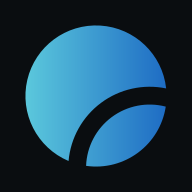
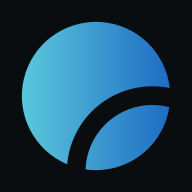
feat: radar animado, más apariciones al hacer scroll, redes y mapa (v1.1.0)
- Favicon generado directamente de brand/connexis-isotipo.svg (transparente).
- Radar del hero: barrido que gira "buscando", detecciones sincronizadas con el haz
  y pulsos desde el isotipo; versión lenta con prefers-reduced-motion.
- Motion: títulos palabra por palabra, fotos con revelado tipo cortina y parallax,
  línea de etiquetas, tarjetas/tablas/FAQ/formularios/footer en secuencia.
  Las apariciones se revisan en cada scroll para que nada quede oculto.
- Teléfono +52 8129129134, LinkedIn y Facebook (header, footer, contacto, schema sameAs).
- Dirección en el header y mapa de Google en /contacto (CSP actualizada).

diff --git a/src/scripts/motion.ts b/src/scripts/motion.ts
@@ -1,39 +1,119 @@
-// Animaciones con Motion (https://motion.dev). Pocas y con propósito:
-// 1. Entrada del hero (titular y CTA) sin tocar la opacidad del texto → no retrasa el LCP.
-// 2. Revelado al hacer scroll con escalonado por tarjeta (atributo data-reveal + --i).
+// Animaciones con Motion (https://motion.dev).
+// 1. Entrada del hero sin tocar la opacidad del texto → no retrasa el LCP.
+// 2. Apariciones al hacer scroll (revisión en cada scroll, sin depender de IntersectionObserver): bloques, tarjetas en secuencia, títulos palabra por palabra,
+//    fotos con revelado tipo cortina + parallax, línea de las etiquetas, filas de tablas y footer.
 // 3. Barra de progreso de lectura y respuesta táctil en botones.
-// Con prefers-reduced-motion todo queda estático y visible.
-import { animate, inView, press, scroll, stagger } from 'motion';
+// Con prefers-reduced-motion: solo desvanecidos suaves (sin desplazamientos ni parallax).
+import { animate, press, scroll, stagger } from 'motion';
 
 const EASE: [number, number, number, number] = [0.16, 1, 0.3, 1];
 const reduce = window.matchMedia('(prefers-reduced-motion: reduce)').matches;
-const reveal = document.querySelectorAll<HTMLElement>('[data-reveal]');
+const root = document.documentElement;
+root.classList.add('motion');
+if (reduce) root.classList.add('motion-reduce');
 
-if (reduce) {
-  reveal.forEach((el) => el.classList.add('is-in'));
-} else {
-  document.documentElement.classList.add('motion');
+// Dispara `fn` una vez cuando el elemento entra a la pantalla. Se revisa en cada scroll (rAF),
+// así nada se queda oculto aunque el usuario baje muy rápido o salte con un ancla.
+const pending = new Map<Element, () => void>();
+let ticking = false;
+function check() {
+  ticking = false;
+  const limit = window.innerHeight * 0.92;
+  pending.forEach((fn, el) => {
+    if (el.getBoundingClientRect().top < limit) { pending.delete(el); fn(); }
+  });
+}
+const queue = () => { if (!ticking) { ticking = true; requestAnimationFrame(check); } };
+function onEnter(el: Element, fn: () => void) { pending.set(el, fn); queue(); }
+window.addEventListener('scroll', queue, { passive: true });
+window.addEventListener('resize', queue);
+window.addEventListener('load', queue);
 
-  // 1 · Hero
+const inHero = (el: Element) => Boolean(el.closest('[data-hero], [data-hero-art], .cx-loader, .mbar, .cookies'));
+
+// ---------- 1 · Hero ----------
+if (!reduce) {
   const hero = document.querySelectorAll<HTMLElement>('[data-hero] > *');
   if (hero.length) animate(hero, { y: [16, 0] }, { duration: 0.9, ease: EASE, delay: stagger(0.08) });
-  const radar = document.querySelector<HTMLElement>('[data-hero-art]');
-  if (radar) animate(radar, { opacity: [0, 1], scale: [0.92, 1] }, { type: 'spring', stiffness: 60, damping: 18, delay: 0.15 });
+  const art = document.querySelector<HTMLElement>('[data-hero-art]');
+  if (art) animate(art, { opacity: [0, 1], scale: [0.9, 1] }, { type: 'spring', stiffness: 60, damping: 18, delay: 0.15 });
+}
 
-  // 2 · Revelado al hacer scroll (una sola vez por elemento)
-  inView(
-    reveal,
-    (el) => {
-      const i = Number((el as HTMLElement).style.getPropertyValue('--i')) || 0;
-      animate(el, { opacity: [0, 1], y: [24, 0] }, { duration: 0.8, ease: EASE, delay: i * 0.07 }).finished.then(() =>
-        el.classList.add('is-in'),
-      );
-    },
-    { margin: '0px 0px -10% 0px', amount: 0.05 },
-  );
+// ---------- 2 · Apariciones al hacer scroll ----------
+// Además de los [data-reveal] marcados a mano, se agregan automáticamente estos bloques.
+const AUTO = [
+  'main .section-head', 'main .tldr', 'main .table-wrap', 'main .card', 'main .faq__item', 'main .step',
+  'main form.lead', 'main .channel', 'main .benefits__list li', 'main .checks li', 'main .hero__proof li',
+  'main .diag__contact li', 'main .prose > *', 'main .lp-final', 'main .ctaband', 'main .thanks',
+  '.share-band__in', '.footer__grid > *', '.footer__bottom',
+].join(',');
+
+const marked = new Set<HTMLElement>(document.querySelectorAll<HTMLElement>('[data-reveal]'));
+document.querySelectorAll<HTMLElement>(AUTO).forEach((el) => {
+  if (inHero(el) || marked.has(el)) return;
+  // Si un ancestro ya aparece, no duplicar la animación
+  for (const m of marked) if (m.contains(el)) return;
+  el.setAttribute('data-reveal', '');
+  marked.add(el);
+});
+// Escalonado entre hermanos que aparecen juntos
+marked.forEach((el) => {
+  if (el.style.getPropertyValue('--i')) return;
+  const sibs = Array.from(el.parentElement?.children ?? []).filter((c) => marked.has(c as HTMLElement));
+  el.style.setProperty('--i', String(Math.max(0, sibs.indexOf(el))));
+});
+
+marked.forEach((el) =>
+  onEnter(el, () => {
+    const i = Number(el.style.getPropertyValue('--i')) || 0;
+    const delay = Math.min(i, 8) * 0.07;
+    const kf = reduce || el.tagName === 'TR' ? { opacity: [0, 1] } : { opacity: [0, 1], y: [28, 0] };
+    const done = () => el.classList.add('is-in');
+    animate(el, kf, { duration: reduce ? 0.5 : 0.8, ease: EASE, delay }).finished.then(done, done);
+  }),
+);
+
+if (!reduce) {
+  // Títulos H2: las palabras suben desde una máscara
+  document.querySelectorAll<HTMLElement>('main h2, .footer__title').forEach((h) => {
+    if (inHero(h) || h.closest('.tldr, .faq__item, form, .cookies')) return;
+    splitWords(h);
+    const words = h.querySelectorAll<HTMLElement>('.w__i');
+    words.forEach((w) => (w.style.transform = 'translateY(105%)'));
+    onEnter(h, () => {
+      animate(words, { y: ['105%', '0%'] }, { duration: 0.75, ease: EASE, delay: stagger(0.045, { startDelay: 0.05 }) });
+    });
+  });
+
+  // Etiquetas (eyebrow): la línea se dibuja de izquierda a derecha
+  document.querySelectorAll<HTMLElement>('.eyebrow').forEach((e) => {
+    if (inHero(e)) return;
+    e.style.setProperty('--line', '0');
+    onEnter(e, () => { animate(e, { '--line': [0, 1] } as any, { duration: 0.7, ease: EASE, delay: 0.1 }); });
+  });
+
+  // Fotos: revelado tipo cortina + ligera escala, y parallax mientras se hace scroll
+  document.querySelectorAll<HTMLElement>('main .photo').forEach((p) => {
+    const img = p.querySelector<HTMLElement>('img');
+    if (!img) return;
+    const eager = inHero(p) || p.getBoundingClientRect().top < window.innerHeight;
+    if (!eager) {
+      p.style.clipPath = 'inset(0 0 100% 0)';
+      onEnter(p, () => {
+        const clear = () => { p.style.clipPath = ''; };
+        animate(p, { clipPath: ['inset(0 0 100% 0)', 'inset(0 0 0% 0)'] }, { duration: 1.1, ease: EASE }).finished.then(clear, clear);
+        animate(img, { scale: [1.18, 1.06] }, { duration: 1.4, ease: EASE });
+      });
+    }
+    // Parallax solo en fotos que no son enlaces (los enlaces usan zoom al pasar el cursor)
+    if (!p.closest('a')) {
+      img.style.scale = '1.06';
+      scroll(animate(img, { y: ['-4%', '4%'] }, { ease: 'linear' }), { target: p, offset: ['start end', 'end start'] });
+    }
+  });
 
   // 3 · Respuesta táctil en botones
-  press('.btn, .filter', (el) => {
+  press('.btn, .filter, .channel', (el) => {
     animate(el, { scale: 0.97 }, { type: 'spring', stiffness: 600, damping: 30 });
     return () => animate(el, { scale: 1 }, { type: 'spring', stiffness: 500, damping: 20 });
   });
@@ -43,6 +123,35 @@ if (reduce) {
   if (ok) animate(ok, { scale: [0.4, 1], rotate: [-20, 0] }, { type: 'spring', stiffness: 260, damping: 14, delay: 0.1 });
 }
 
-// Barra de progreso de lectura (también útil con reduced-motion: solo refleja el scroll)
+// Barra de progreso de lectura (solo refleja el scroll; también con reduced-motion)
 const bar = document.querySelector<HTMLElement>('[data-progress]');
 if (bar) scroll(animate(bar, { scaleX: [0, 1] }, { ease: 'linear' }));
+
+/** Envuelve cada palabra en una máscara para animarla, conservando etiquetas internas (p. ej. .hl). */
+function splitWords(el: HTMLElement) {
+  if (el.dataset.split) return;
+  el.dataset.split = '1';
+  const walk = (node: Node) => {
+    Array.from(node.childNodes).forEach((child) => {
+      if (child.nodeType === Node.TEXT_NODE) {
+        const parts = (child.textContent ?? '').split(/(\s+)/);
+        const frag = document.createDocumentFragment();
+        parts.forEach((part) => {
+          if (!part) return;
+          if (/^\s+$/.test(part)) { frag.append(document.createTextNode(part)); return; }
+          const w = document.createElement('span');
+          w.className = 'w';
+          const inner = document.createElement('span');
+          inner.className = 'w__i';
+          inner.textContent = part;
+          w.append(inner);
+          frag.append(w);
+        });
+        child.replaceWith(frag);
+      } else if (child.nodeType === Node.ELEMENT_NODE && !(child as Element).matches('svg, br')) {
+        walk(child);
+      }
+    });
+  };
+  walk(el);
+}

diff --git a/src/data/site.ts b/src/data/site.ts
@@ -11,7 +11,7 @@ export const SITE = {
   tagline: 'Ciberseguridad, redes y seguridad electrónica para PyMEs en Monterrey',
   description:
     'Soluciones de ciberseguridad, redes y seguridad electrónica para pequeñas y medianas empresas en Monterrey y su área metropolitana.',
-  phone: '+52 81 2912 9134',
+  phone: '+52 8129129134',
   phoneHref: 'tel:+528129129134',
   whatsapp: '528129129134', // CONFIRMAR que el número tiene WhatsApp Business
   whatsappText: 'Hola ConneXis, me interesa una evaluación de ciberseguridad para mi empresa.',
@@ -33,9 +33,9 @@ export const SITE = {
   responseTime: '1 día hábil', // CONFIRMAR tiempo de respuesta que se promete en formularios
   // Deja vacío lo que no exista; el footer y el schema solo muestran lo que tenga URL.
   social: {
-    linkedin: '',
-    facebook: '',
-    instagram: '',
+    linkedin: 'https://www.linkedin.com/company/connexis-mx/',
+    facebook: 'https://www.facebook.com/share/14GhoWJVgx4/',
+    instagram: '', // pendiente
   },
 } as const;
 
@@ -65,3 +65,11 @@ export const cleanPath = (pathname: string) => {
   const p = pathname.replace(/\.html$/, '').replace(/\/index$/, '/').replace(/(.)\/$/, '$1');
   return p === '' ? '/' : p;
 };
+
+/** Redes con URL definida (el footer, el header y el schema solo muestran estas). */
+export const socialLinks = () =>
+  ([
+    { name: 'LinkedIn', href: SITE.social.linkedin, icon: 'LinkedIn' },
+    { name: 'Facebook', href: SITE.social.facebook, icon: 'Facebook' },
+    { name: 'Instagram', href: SITE.social.instagram, icon: 'Instagram' },
+  ] as const).filter((s) => s.href) as { name: string; href: string; icon: 'LinkedIn' | 'Facebook' | 'Instagram' }[];

diff --git a/src/styles/global.css b/src/styles/global.css
@@ -84,7 +84,7 @@ h3 { font-size: clamp(1.15rem, 1.6vw, 1.35rem); font-weight: 600; letter-spacing
   display: inline-flex; align-items: center; gap: 12px; margin-bottom: 18px;
   color: var(--lime); font-size: 0.875rem; font-weight: 600; letter-spacing: 0.02em;
 }
-.eyebrow::before { content: ''; width: 28px; height: 2px; background: currentColor; }
+.eyebrow::before { content: ''; width: 28px; height: 2px; background: currentColor; transform: scaleX(var(--line, 1)); transform-origin: 0 50%; }
 .num { font-variant-numeric: tabular-nums; }
 
 /* ---------- Layout ---------- */
@@ -206,7 +206,11 @@ td.yes { color: var(--lime); }
 /* ---------- Revelado al hacer scroll ---------- */
 /* Estado inicial solo cuando Motion ya cargó (clase .motion en <html>): si el script
    falla, el contenido nunca queda oculto. Motion anima la entrada y deja .is-in. */
-.motion [data-reveal]:not(.is-in) { opacity: 0; transform: translateY(24px); }
+.motion [data-reveal]:not(.is-in) { opacity: 0; }
+
+/* Palabras de títulos (las crea src/scripts/motion.ts) */
+.w { display: inline-block; overflow: hidden; vertical-align: top; padding-bottom: 0.08em; margin-bottom: -0.08em; }
+.w__i { display: inline-block; will-change: transform; }
 
 /* Barra de progreso de lectura */
 .scroll-progress { position: fixed; top: 0; left: 0; right: 0; height: 2px; z-index: 120; background: var(--lime); transform: scaleX(0); transform-origin: 0 50%; pointer-events: none; }

diff --git a/README.md b/README.md
@@ -12,7 +12,7 @@
 </p>
 
 <p align="center">
-  <img alt="Versión" src="https://img.shields.io/badge/versión-1.0.0-8CD336?style=flat-square" />
+  <img alt="Versión" src="https://img.shields.io/badge/versión-1.1.0-8CD336?style=flat-square" />
   <img alt="Etapa" src="https://img.shields.io/badge/etapa-1%20de%203-5BC8DC?style=flat-square" />
   <img alt="Astro" src="https://img.shields.io/badge/Astro-7-0B1B2E?style=flat-square&logo=astro" />
   <img alt="Motion" src="https://img.shields.io/badge/Motion-14-0B1B2E?style=flat-square" />
@@ -25,7 +25,7 @@
 
 El sitio de ConneXis, construido con **Astro** sobre la *Propuesta 3 · Operación*: fondo carbón con verde lima, fotografía en blanco y negro, radar animado con el isotipo, servicios numerados y animaciones con **Motion**.
 
-Esta versión **1.0.0** cubre la **Etapa 1: Sitio y captación de prospectos**: un sitio renovado, una página por servicio y una landing para Google Ads que convierte visitas en solicitudes. Las etapas 2 y 3 ya están diseñadas en la propuesta y parte de su código está listo pero comentado (ver [Siguientes etapas](#siguientes-etapas)).
+Esta versión **1.1.0** cubre la **Etapa 1: Sitio y captación de prospectos**: un sitio renovado, una página por servicio y una landing para Google Ads que convierte visitas en solicitudes. Las etapas 2 y 3 ya están diseñadas en la propuesta y parte de su código está listo pero comentado (ver [Siguientes etapas](#siguientes-etapas)).
 
 📄 Propuesta completa: [`doc/connexis-propuesta-operacion-etapas.pdf`](doc/connexis-propuesta-operacion-etapas.pdf) · páginas en imagen en [`doc/propuesta/`](doc/propuesta).
 
@@ -86,13 +86,17 @@ Implementada en [`src/scripts/motion.ts`](src/scripts/motion.ts) con [Motion](ht
 
 | Momento | Qué hace |
 |---|---|
-| Entrada del hero | Titular, texto y CTA suben en secuencia; el radar entra con resorte |
-| Scroll | Tarjetas y secciones aparecen una a una (`inView` + `stagger`) |
+| Hero | Titular, texto y CTA suben en secuencia; el radar entra con resorte |
+| Radar | El barrido gira "buscando" y cada punto se enciende cuando el haz pasa encima, con pulsos desde el isotipo |
+| Títulos H2 | Las palabras suben una a una desde una máscara |
+| Etiquetas | La línea verde de cada etiqueta se dibuja de izquierda a derecha |
+| Fotos | Revelado tipo cortina al entrar y parallax suave mientras se hace scroll |
+| Bloques y tarjetas | Aparecen en secuencia: tarjetas, tablas, FAQ, listas, formularios, CTA y footer |
 | Progreso de lectura | Barra verde superior ligada al scroll |
 | Botones | Respuesta táctil al presionar |
 | Gracias | Ícono de confirmación con resorte |
 
-Además: **loader animado** con el isotipo (primera visita de la sesión), radar y cinta de servicios en CSS. Con `prefers-reduced-motion` todo queda estático, y si Motion no carga el contenido se muestra igual.
+Además: **loader animado** con el isotipo (primera visita de la sesión), radar y cinta de servicios en CSS. Con `prefers-reduced-motion` solo hay desvanecidos suaves y el radar gira lento, sin desplazamientos ni parallax; si Motion no carga, el contenido se muestra igual.
 
 ### Accesibilidad (WCAG 2.2 AA)
 
